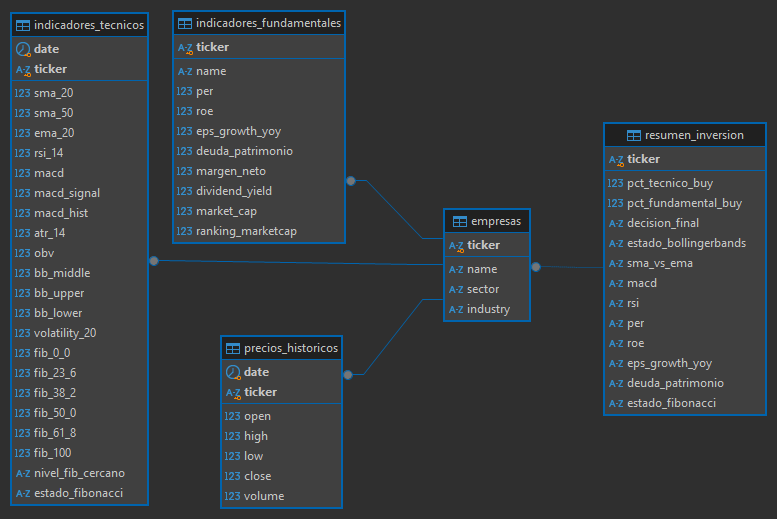
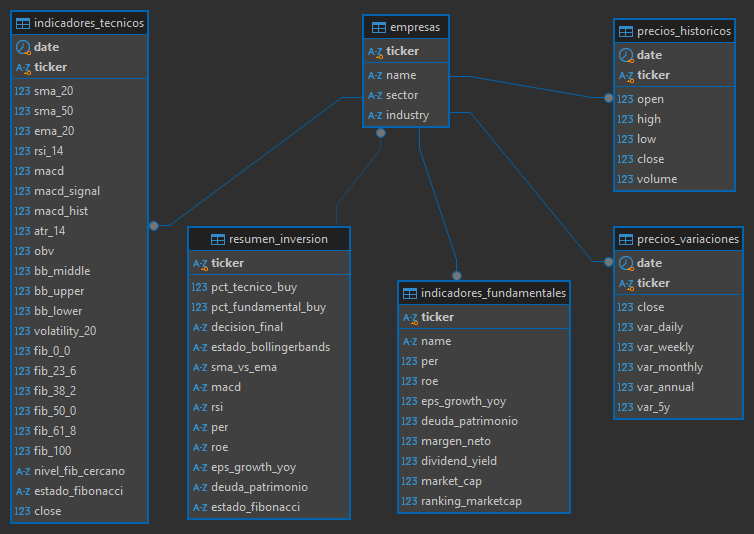
insertamos lista de variacion de precios

diff --git a/src/etl/load.py b/src/etl/load.py
@@ -140,20 +140,22 @@ def upsert_indicadores_tecnicos(csv_path):
 
     if df.empty:
         print("ℹ No hay nuevos indicadores técnicos para cargar.")
+        conn.close()
         return
 
     print("📈 Cargando nuevos indicadores técnicos...")
     for _, row in tqdm(df.iterrows(), total=len(df)):
         insert_query = """
             INSERT INTO indicadores_tecnicos (
-                date, ticker, sma_20, sma_50, ema_20, rsi_14,
+                date, ticker, close,
+                sma_20, sma_50, ema_20, rsi_14,
                 macd, macd_signal, macd_hist, atr_14, obv,
                 bb_middle, bb_upper, bb_lower, volatility_20,
                 fib_0_0, fib_23_6, fib_38_2, fib_50_0, fib_61_8, fib_100,
                 nivel_fib_cercano, estado_fibonacci
-            ) 
-            VALUES (%s, %s, %s, %s, %s, %s, %s, %s, %s, %s, %s, %s, %s, %s, %s, %s, %s, %s, %s, %s, %s, %s, %s)
+            ) VALUES (%s, %s, %s, %s, %s, %s, %s, %s, %s, %s, %s, %s, %s, %s, %s, %s, %s, %s, %s, %s, %s, %s, %s, %s)
             ON CONFLICT (date, ticker) DO UPDATE SET
+                close = EXCLUDED.close,
                 sma_20 = EXCLUDED.sma_20,
                 sma_50 = EXCLUDED.sma_50,
                 ema_20 = EXCLUDED.ema_20,
@@ -177,7 +179,15 @@ def upsert_indicadores_tecnicos(csv_path):
                 estado_fibonacci = EXCLUDED.estado_fibonacci
             ;
         """
-        cursor.execute(insert_query, tuple(row))
+        cursor.execute(insert_query, (
+            row['Date'], row['Ticker'], row['Close'],
+            row['SMA_20'], row['SMA_50'], row['EMA_20'], row['RSI_14'],
+            row['MACD'], row['MACD_Signal'], row['MACD_Hist'],
+            row['ATR_14'], row['OBV'],
+            row['BB_Middle'], row['BB_Upper'], row['BB_Lower'], row['Volatility_20'],
+            row['Fib_0.0%'], row['Fib_23.6%'], row['Fib_38.2%'], row['Fib_50.0%'], row['Fib_61.8%'], row['Fib_100%'],
+            row['Nivel_Fib_Cercano'], row['Estado_Fibonacci']
+        ))
 
     conn.commit()
     conn.close()
@@ -235,6 +245,51 @@ def upsert_resumen_inversion(csv_path):
     conn.close()
     print(f"✅ Resumen de inversión cargado correctamente ({len(df)} registros nuevos).")
 
+def upsert_precios_variaciones(csv_path):
+    """Carga incremental de variaciones de precios."""
+    conn = get_connection()
+    cursor = conn.cursor()
+
+    df = pd.read_csv(csv_path)
+    df['Date'] = pd.to_datetime(df['Date'])
+
+    cursor.execute("SELECT MAX(date) FROM precios_variaciones;")
+    max_date_db = cursor.fetchone()[0]
+    
+    if max_date_db:
+        max_date_db = pd.to_datetime(max_date_db)
+        df = df[df['Date'] > max_date_db]
+
+    if df.empty:
+        print("ℹ No hay nuevas variaciones de precios para cargar.")
+        conn.close()
+        return
+
+    print("📈 Cargando nuevas variaciones de precios...")
+    for _, row in tqdm(df.iterrows(), total=len(df)):
+        insert_query = """
+            INSERT INTO precios_variaciones (
+                date, ticker, close,
+                var_daily, var_weekly, var_monthly, var_annual, var_5y
+            ) VALUES (%s, %s, %s, %s, %s, %s, %s, %s)
+            ON CONFLICT (date, ticker) DO UPDATE SET
+                close = EXCLUDED.close,
+                var_daily = EXCLUDED.var_daily,
+                var_weekly = EXCLUDED.var_weekly,
+                var_monthly = EXCLUDED.var_monthly,
+                var_annual = EXCLUDED.var_annual,
+                var_5y = EXCLUDED.var_5y
+            ;
+        """
+        cursor.execute(insert_query, (
+            row['Date'], row['Ticker'], row['Close'],
+            row['var_daily'], row['var_weekly'], row['var_monthly'],
+            row['var_annual'], row['var_5y']
+        ))
+
+    conn.commit()
+    conn.close()
+    print(f"✅ Variaciones de precios cargadas correctamente ({len(df)} registros nuevos).")
 
 if __name__ == "__main__":
     print("⚙ Ejecutando pruebas de carga manual...")
@@ -247,5 +302,7 @@ if __name__ == "__main__":
     upsert_fundamentales(DIR_READY + "indicadores_fundamentales_ready.csv")
     upsert_indicadores_tecnicos(DIR_READY + "indicadores_tecnicos_ready.csv")
     upsert_resumen_inversion(DIR_READY + "resumen_inversion_ready.csv")
+    upsert_precios_variaciones(DIR_READY + "precios_variaciones_ready.csv")
+
 
     print("\n✅ ¡Carga de todas las tablas finalizada correctamente!")

diff --git a/src/etl/main.py b/src/etl/main.py
@@ -1,6 +1,6 @@
 from ext_diario import actualizar_datos_historicos, actualizar_fundamentales
-from transform import transformar_empresas, transformar_precios_historicos, transformar_indicadores_fundamentales, calcular_indicadores_tecnicos,calcular_resumen_inversion 
-from load import upsert_empresas, upsert_precios_historicos, upsert_fundamentales, upsert_indicadores_tecnicos,upsert_resumen_inversion
+from transform import transformar_empresas, transformar_precios_historicos, transformar_indicadores_fundamentales, calcular_indicadores_tecnicos,calcular_resumen_inversion, calcular_variaciones_precios 
+from load import upsert_empresas, upsert_precios_historicos, upsert_fundamentales, upsert_indicadores_tecnicos,upsert_resumen_inversion, upsert_precios_variaciones
 from tqdm import tqdm
 import os
 
@@ -54,6 +54,10 @@ def main():
         precios_historicos_file=DIR_READY + "precios_historicos_ready.csv",
         output_file=DIR_READY + "resumen_inversion_ready.csv"
     )
+    calcular_variaciones_precios(
+        input_file=DIR_READY + "precios_historicos_ready.csv",
+        output_file=DIR_READY + "precios_variaciones_ready.csv"
+    )
 
     # ================
     # CARGA
@@ -63,7 +67,8 @@ def main():
     upsert_precios_historicos(DIR_READY + "precios_historicos_ready.csv")
     upsert_fundamentales(DIR_READY + "indicadores_fundamentales_ready.csv")
     upsert_indicadores_tecnicos(DIR_READY + "indicadores_tecnicos_ready.csv")
-    upsert_resumen_inversion(DIR_READY + "resumen_inversion_ready.csv") 
+    upsert_resumen_inversion(DIR_READY + "resumen_inversion_ready.csv")
+    upsert_precios_variaciones(DIR_READY + "precios_variaciones_ready.csv")
 
     print("\n🎯 ¡PROCESO COMPLETO SIN ERRORES! 🎯")
 

diff --git a/src/etl/transform.py b/src/etl/transform.py
@@ -318,6 +318,38 @@ def calcular_resumen_inversion(
 
     print(f"✅ Resumen de inversión detallado generado: {output_file}")
 
+def calcular_variaciones_precios(input_file=DIR_READY + "precios_historicos_ready.csv",
+                                 output_file=DIR_READY + "precios_variaciones_ready.csv"):
+    """
+    Calcula variaciones porcentuales diarias, semanales, mensuales, anuales y a 5 años de los precios de cierre.
+
+    Args:
+        input_file (str): Ruta del archivo de precios históricos limpio.
+        output_file (str): Ruta donde guardar el nuevo archivo de variaciones.
+    """
+    log("Calculando variaciones porcentuales de precios...")
+
+    df = pd.read_csv(input_file, parse_dates=["Date"])[["Date", "Ticker", "Close"]]
+
+    df = df.sort_values(["Ticker", "Date"])
+
+    periods = {
+        "daily": 1,
+        "weekly": 5,
+        "monthly": 21,
+        "annual": 252,
+        "5y": 252 * 5
+    }
+
+    for name, days in periods.items():
+        df[f"var_{name}"] = df.groupby("Ticker")["Close"].pct_change(periods=days).round(4)
+
+    cols = ["Date", "Ticker", "Close"] + [f"var_{name}" for name in periods]
+    df_variaciones = df[cols]
+
+    df_variaciones.to_csv(output_file, index=False)
+    log(f"Variaciones de precios guardadas en: {output_file}")
+
 
 if __name__ == "__main__":
     tqdm.pandas()
@@ -343,4 +375,10 @@ if __name__ == "__main__":
     )
 
     calcular_resumen_inversion()
+
+    calcular_variaciones_precios(
+    input_file=DIR_READY + "precios_historicos_ready.csv",
+    output_file=DIR_READY + "precios_variaciones_ready.csv"
+)
+
 

diff --git a/entregables/02.Documentacion_ETL_Proyecto_Final.md b/entregables/02.Documentacion_ETL_Proyecto_Final.md
@@ -48,6 +48,7 @@ El objetivo es construir una base de datos lista para el análisis de precios hi
   - Reducción de precisión a 3 decimales en precios para optimizar el almacenamiento.
   - Estandarización de fechas y columnas.
   -	Cálculo de señales de compra/venta en resumen_inversion_ready.csv.
+  - Calculo de variaciones diarias, semanal, mensual, anual y cada 5 años en precios_variocion.csv
 
 ---
 
@@ -60,7 +61,7 @@ El objetivo es construir una base de datos lista para el análisis de precios hi
   - Control de duplicados en históricos y técnicos.
   - Optimización con transacciones y cargas por lotes (batch insert).
 
-![alt text](esquema_bbdd.png)
+![alt text](image.png)
 ---
 
 ### 4. Orquestación
@@ -94,6 +95,7 @@ El objetivo es construir una base de datos lista para el análisis de precios hi
 | `precios_historicos_ready.csv`    | Precios diarios OHLCV.                                            |
 | `indicadores_fundamentales_ready.csv` | PER, ROE, EPS growth, Margen Neto, Dividend Yield.         |
 | `indicadores_tecnicos_ready.csv`  | SMA, EMA, RSI, MACD, Bollinger Bands, ATR, OBV, Volatilidad.      |
+| `precios_variacion_ready`         | Calculo de variaciones diarias, semanal, mensual, anual y cada 5 años |
 | `resumen_inversion.csv`           | Decision Final de compra o venta para cada indicador tec y fund  |
 
 ---
